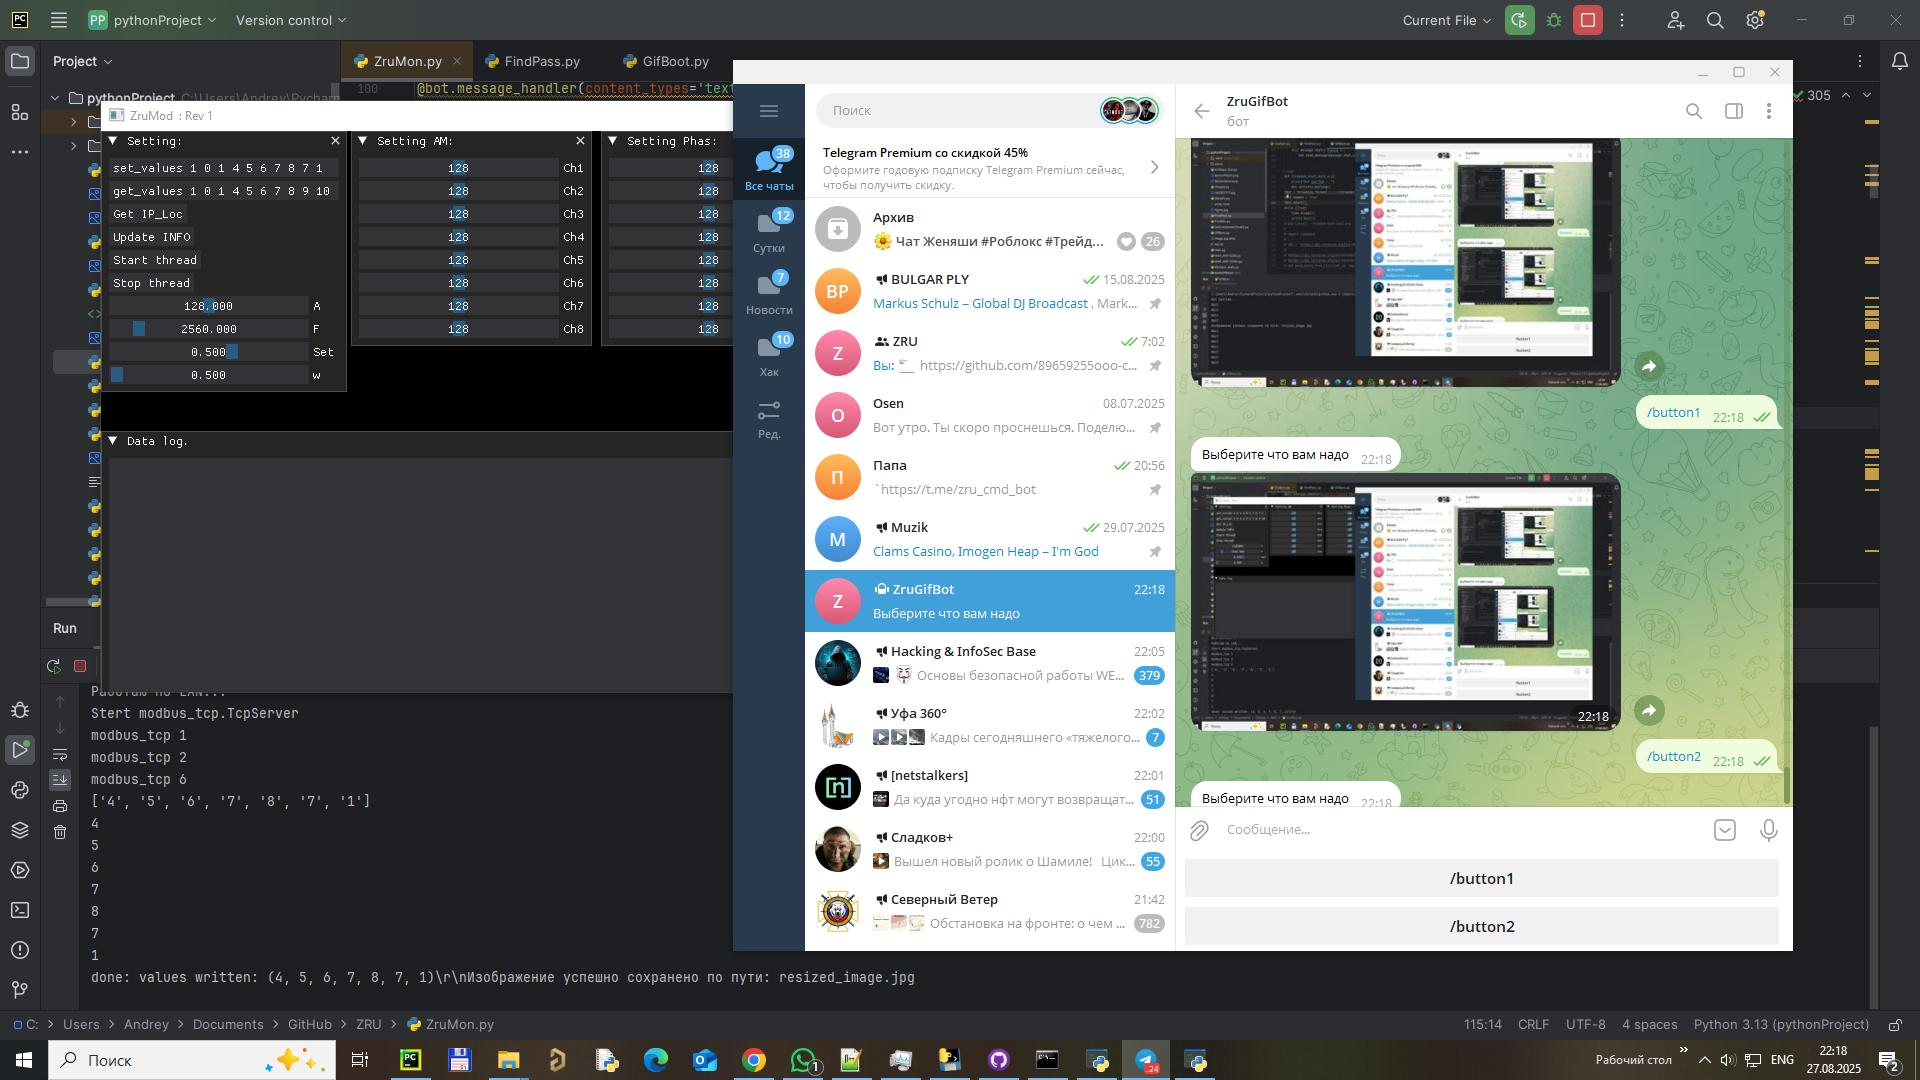
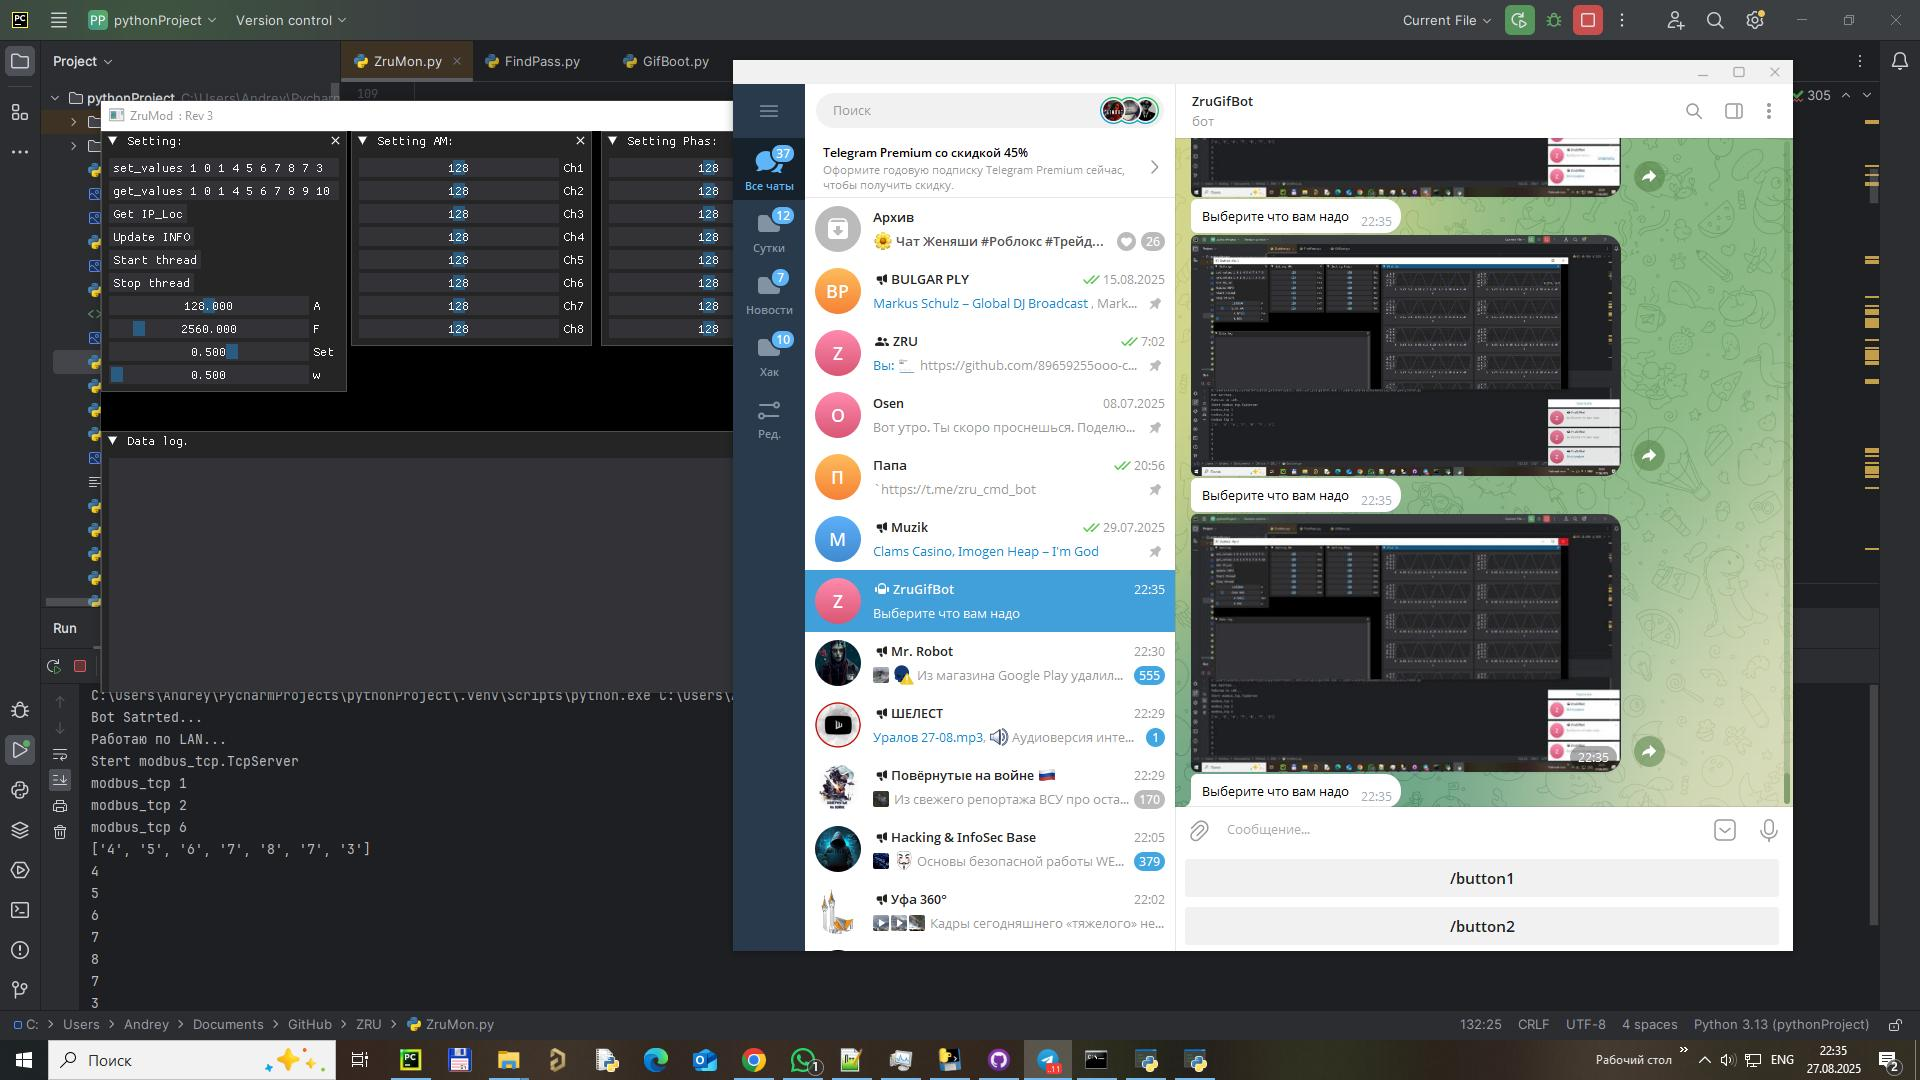
rev4
rev4

diff --git a/ZruMon.py b/ZruMon.py
@@ -113,6 +113,13 @@ def threaded_start_bot( arg):
 tBot = threading.Thread(target=threaded_start_bot, args=(15,))  # Настраиваем поток
 tBot.daemon = True
 tBot.start();
+time.sleep(1)
+print(f"Wait 3")
+time.sleep(1)
+print(f"Wait 2")
+time.sleep(1)
+print(f"Wait 1")
+time.sleep(1)
 ########################################################
 import dearpygui.dearpygui as dpg #pip install dearpygui
 from math import sin, cos
@@ -125,7 +132,7 @@ import sys
 import modbus_tk
 import modbus_tk.defines as cst
 from modbus_tk import modbus_tcp
-revForPO = "3"; 
+revForPO = "4";
 StertCmdForModBus = "set_values 1 0 1 4 5 6 7 8 7 "+revForPO;
 cmdForModBus = StertCmdForModBus
 def modBServ (arg):
